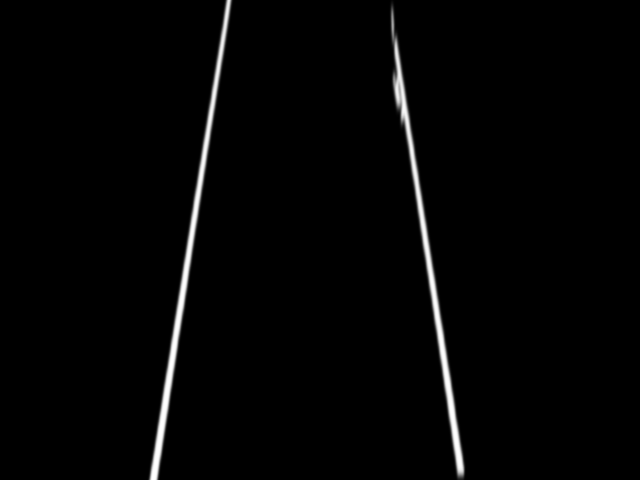
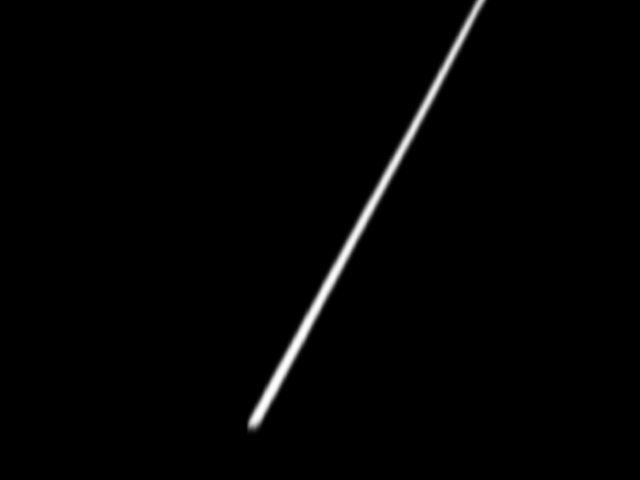
some one lane shit working locally

Changed region(s): [[0.375, 0.0, 0.7812, 1.0], [0.2188, 0.0, 0.375, 1.0]]

diff --git a/parkinglot/perception/lane_detection/utils/line_fit.py b/parkinglot/perception/lane_detection/utils/line_fit.py
@@ -190,83 +190,21 @@ def tune_fit(binary_warped, left_fit, right_fit):
 
 	return ret
 
-
-def viz1(binary_warped, ret, save_file=None):
-	"""
-	Visualize each sliding window location and predicted lane lines, on binary warped image
-	save_file is a string representing where to save the image (if None, then just display)
-	"""
-	# Grab variables from ret dictionary
-	left_fit = ret['left_fit']
-	right_fit = ret['right_fit']
-	nonzerox = ret['nonzerox']
-	nonzeroy = ret['nonzeroy']
-	out_img = ret['out_img']
-	left_lane_inds = ret['left_lane_inds']
-	right_lane_inds = ret['right_lane_inds']
-
-	# Generate x and y values for plotting
-	ploty = np.linspace(0, binary_warped.shape[0]-1, binary_warped.shape[0] )
-	left_fitx = left_fit[0]*ploty**2 + left_fit[1]*ploty + left_fit[2]
-	right_fitx = right_fit[0]*ploty**2 + right_fit[1]*ploty + right_fit[2]
-
-	out_img[nonzeroy[left_lane_inds], nonzerox[left_lane_inds]] = [255, 0, 0]
-	out_img[nonzeroy[right_lane_inds], nonzerox[right_lane_inds]] = [0, 0, 255]
-	plt.imshow(out_img)
-	plt.plot(left_fitx, ploty, color='yellow')
-	plt.plot(right_fitx, ploty, color='yellow')
-	plt.xlim(0, 1280)
-	plt.ylim(720, 0)
-	if save_file is None:
-		plt.show()
-	else:
-		plt.savefig(save_file)
-	plt.gcf().clear()
-
-
-def bird_fit(binary_warped, ret, save_file=None):
+def bird_viz(binary_warped, mid_line_pts, save_file=None):
 	"""
 	Visualize the predicted lane lines with margin, on binary warped image
 	save_file is a string representing where to save the image (if None, then just display)
 	"""
-	# Grab variables from ret dictionary
-	left_fit = ret['left_fit']
-	right_fit = ret['right_fit']
-	nonzerox = ret['nonzerox']
-	nonzeroy = ret['nonzeroy']
-	mid_line_pts = ret['waypoints']
-	left_lane_inds = ret['left_lane_inds']
-	right_lane_inds = ret['right_lane_inds']
 
 	# Create an image to draw on and an image to show the selection window
 	out_img = (np.dstack((binary_warped, binary_warped, binary_warped))*255).astype('uint8')
 	window_img = np.zeros_like(out_img)
-	# Color in left and right line pixels
-	out_img[nonzeroy[left_lane_inds], nonzerox[left_lane_inds]] = [255, 0, 0]
-	out_img[nonzeroy[right_lane_inds], nonzerox[right_lane_inds]] = [0, 0, 255]
-
-	# Generate x and y values for plotting
-	ploty = np.linspace(0, binary_warped.shape[0]-1, binary_warped.shape[0])
-	left_fitx = left_fit[0]*ploty**2 + left_fit[1]*ploty + left_fit[2]
-	right_fitx = right_fit[0]*ploty**2 + right_fit[1]*ploty + right_fit[2]
-
-
-	# Generate a polygon to illustrate the search window area
-	# And recast the x and y points into usable format for cv2.fillPoly()
-	margin = 50  # NOTE: Keep this in sync with *_fit()
-	left_line_window1 = np.array([np.transpose(np.vstack([left_fitx-margin, ploty]))])
-	left_line_window2 = np.array([np.flipud(np.transpose(np.vstack([left_fitx+margin, ploty])))])
-	left_line_pts = np.hstack((left_line_window1, left_line_window2))
-	right_line_window1 = np.array([np.transpose(np.vstack([right_fitx-margin, ploty]))])
-	right_line_window2 = np.array([np.flipud(np.transpose(np.vstack([right_fitx+margin, ploty])))])
-	right_line_pts = np.hstack((right_line_window1, right_line_window2))
-
+	# Color the middle lane
+	for i in range(len(mid_line_pts)):
+		cv2.circle(out_img, (int(mid_line_pts[i][0]), int(mid_line_pts[i][1])), 5, (0,255,0), -1)
 
 	# Draw the lane onto the warped blank image
-	cv2.fillPoly(window_img, np.int_([left_line_pts]), (0,255, 0))
-	cv2.fillPoly(window_img, np.int_([right_line_pts]), (0,255, 0))
-	cv2.fillPoly(window_img, np.int_([mid_line_pts]), (255,0, 0))
-	result = cv2.addWeighted(out_img, 1, window_img, 0.3, 0)
+	result = cv2.addWeighted(out_img, 1, window_img, 1, 0)
 
 	return result
 
@@ -309,10 +247,39 @@ def final_viz(undist,mid_line_pts, m_inv):
 
 def fit_one_lane(labeled_lanes,num_points=10):
 	lane = np.zeros_like(labeled_lanes)
-	lane[labeled_lanes != 0 ] = 1
-	cv2.imwrite('visualization/one_lane.png',lane*255)
+	lane[labeled_lanes == 1] = 1
+	
+	#if left or right #TODO: decide lane side
+	# take only the bottom 1/3 of the image for refe
+	height,width = labeled_lanes.shape[:2]
+	left_view = np.zeros_like(labeled_lanes)
+	right_view = np.zeros_like(labeled_lanes)
 
+	left_view[int(2*height/3):,:int(width/2)] = lane[int(2*height/3):,:int(width/2)]
+	right_view[int(2*height/3):,int(width/2):] = lane[int(2*height/3):,int(width/2):]  
+	cv2.imwrite('visualization/left_view.png', left_view*255)
+	cv2.imwrite('visualization/right_view.png', right_view*255)
 
+	lane_is_right = np.sum(left_view) < np.sum(right_view)
+	offset = np.array([200, 0])
+
+	nonzero_lane = lane.nonzero()
+	lane_y = np.array(nonzero_lane[0])
+	lane_x = np.array(nonzero_lane[1])
+
+	try:
+		lane_fit = np.polyfit(lane_y, lane_x, 2)
+	####
+	except TypeError:
+		print("Unable to detect lane")
+
+	# find waypoints
+	ploty = np.linspace(0, labeled_lanes.shape[0]-1, num_points)
+	lane_fitx = lane_fit[0]*ploty**2 + lane_fit[1]*ploty + lane_fit[2]
+	mid_fitx = lane_fitx - offset[0] if lane_is_right else lane_fitx + offset[0]
+	mid_line_pts = np.array([np.transpose(np.vstack([mid_fitx, ploty]))])[0]
+
+	return mid_line_pts
 
 def fit_two_lane(labeled_lanes, num_points=10):
 	lane1 = np.zeros_like(labeled_lanes)

diff --git a/parkinglot/perception/lane_detection/detect_lanes.py b/parkinglot/perception/lane_detection/detect_lanes.py
@@ -24,7 +24,7 @@ from YOLOPv2.utils.utils import (time_synchronized,
                                   AverageMeter)
 
 from utils.dataloader import LoadImage
-from utils.line_fit import line_fit, tune_fit, bird_fit, final_viz, fit_one_lane, fit_two_lane
+from utils.line_fit import line_fit, tune_fit, bird_viz, final_viz, fit_one_lane, fit_two_lane
 from utils.misc import Line, perspective_transform
 
 # from parkinglot.topics import SIM_CAMERA_TOPIC, GEM_CAMERA_TOPIC
@@ -164,7 +164,7 @@ class LaneDetector():
 
         # check num of lanes
         if num_lanes == 1:
-            center_waypoints = fit_one_lane(labeled_lanes)
+            mid_line_pts = fit_one_lane(labeled_lanes)
         elif num_lanes == 2:
             mid_line_pts = fit_two_lane(labeled_lanes)
             # lane1[labeled_lanes == 1] = 1
@@ -173,8 +173,10 @@ class LaneDetector():
             # cv2.imwrite('visualization/right_lane.png',lane2*255)
         
         print(mid_line_pts)
+        birdeye_fit_img = bird_viz(img_birdeye, mid_line_pts)
         combine_fit_img = final_viz(camera_img, mid_line_pts, Minv)
         cv2.imwrite('visualization/combine_fit_img.png',combine_fit_img)
+        cv2.imwrite('visualization/birdeye_fit_img.png',birdeye_fit_img)
 
         return None, None, None
         exit(0)
@@ -283,7 +285,7 @@ if __name__ == '__main__':
 
     # img = cv2.imread('/home/gem/Documents/gem_01/src/parkingLOT/parkinglot/perception/YOLOPv2/data/samples/1.jpg')
     # img = cv2.imread('/home/ziruiw3/ece484fa23/parkingLOT/parkinglot/perception/lane_detection/data/50.png')
-    img = cv2.imread('data/500.png')
+    img = cv2.imread('data/150.png')
     lane_detector = LaneDetector(image_topic=None, device=torch.device('cuda:0'), enable_ros = False)
     count = 1
     for i in range(count):
